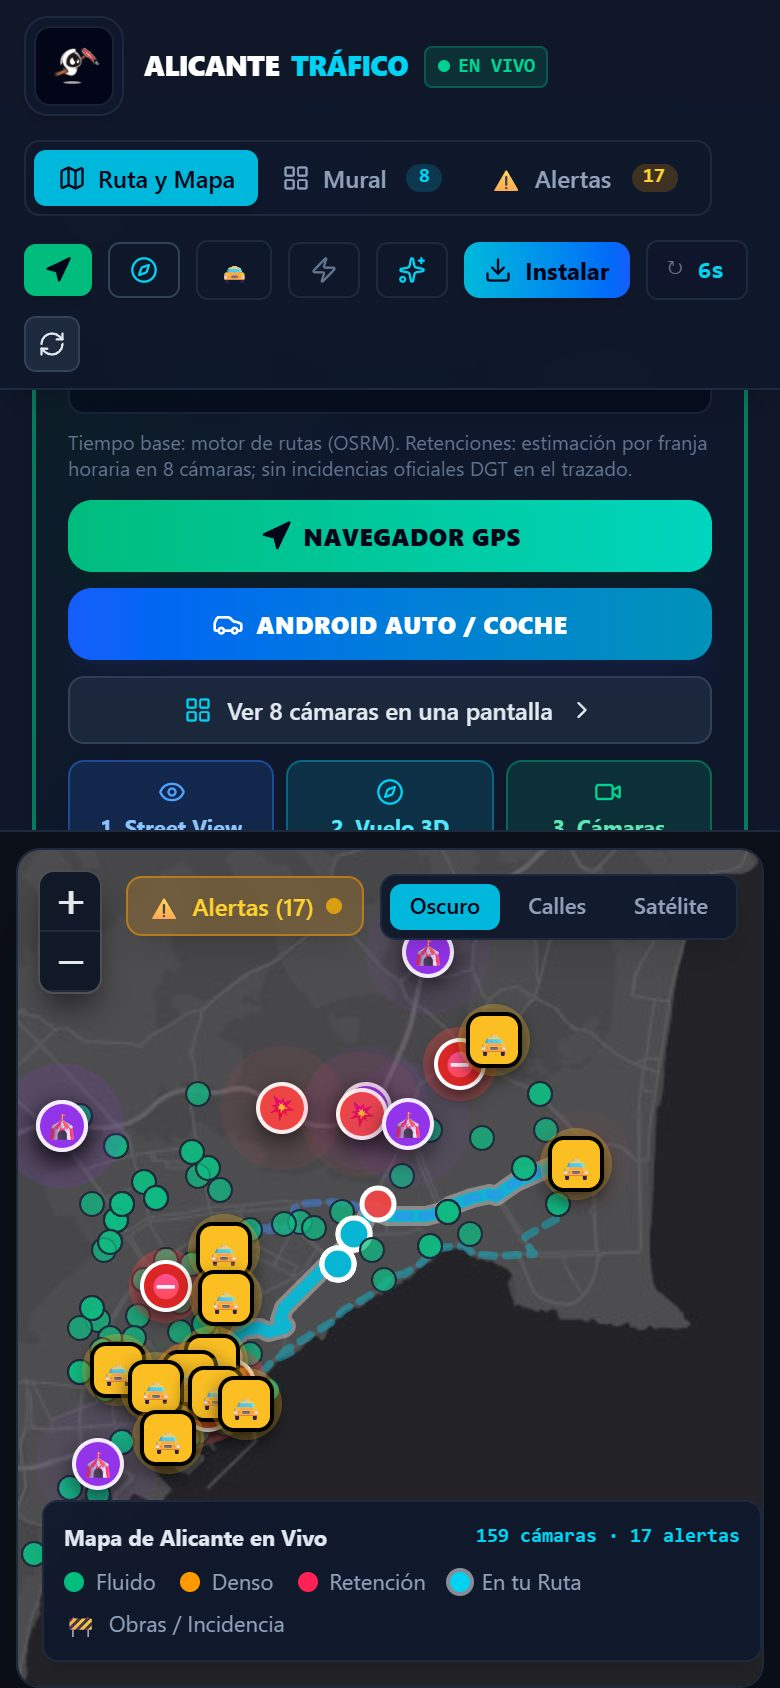
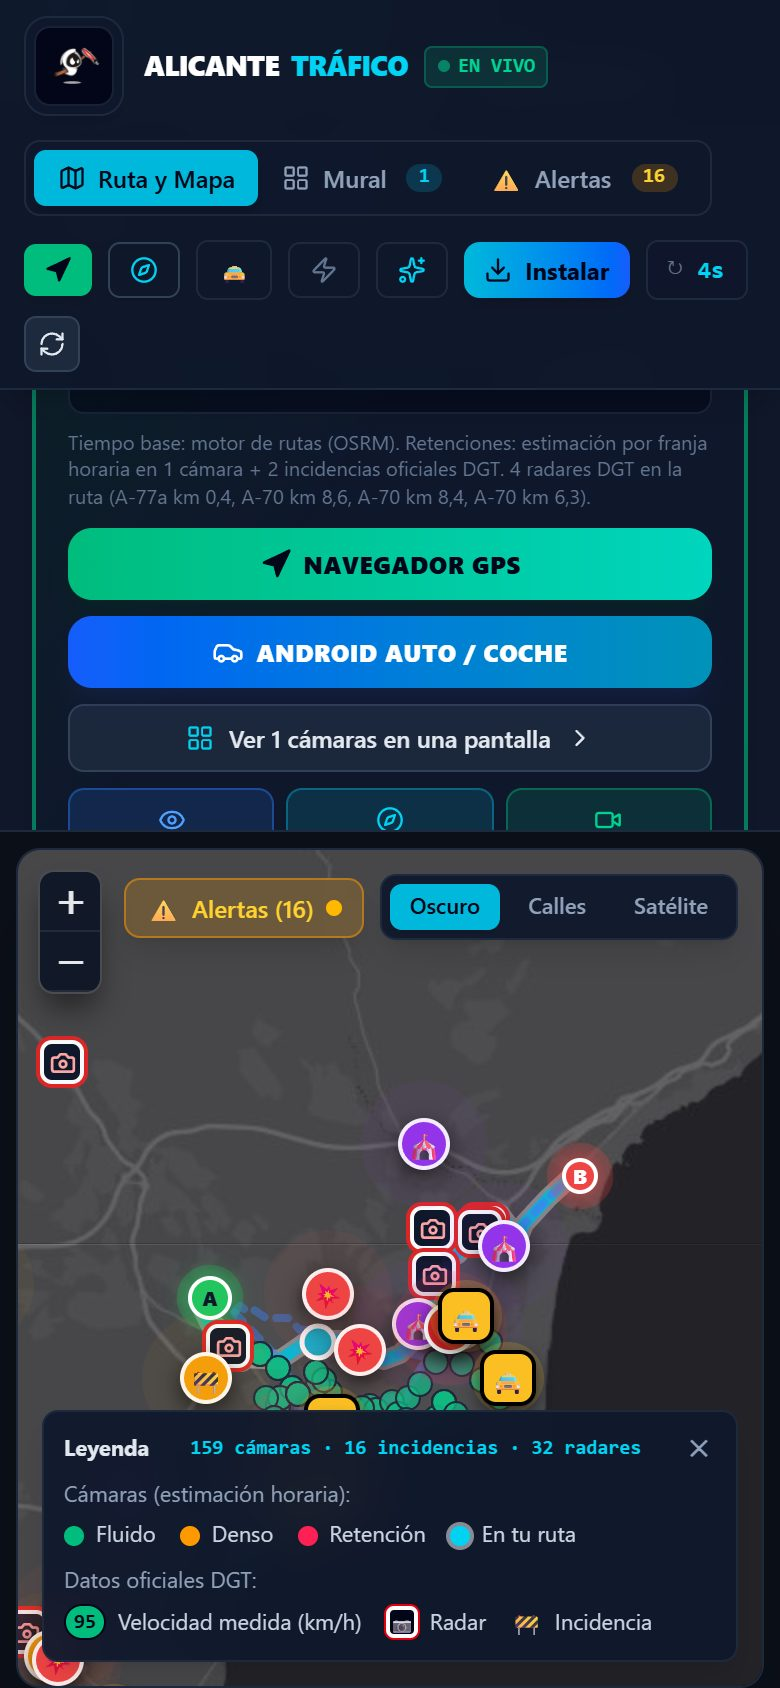
feat: edificios OSM mensuales y capturas nuevas del README
- Workflow mensual (día 1, 03:17 UTC, y manual) que regenera public/buildings
  desde Overpass y hace commit en main solo si hay cambios.
- build-buildings.ts: las zonas que Overpass no responde conservan los edificios
  ya publicados; si no responde ninguna, sale con error sin tocar nada.
- Capturas reales nuevas: radares, velocidades medidas, leyenda y modo coche.

diff --git a/scripts/build-buildings.ts b/scripts/build-buildings.ts
@@ -4,7 +4,11 @@
 // Why: the public Overpass servers are often saturated (20-60 s per query, 504s), so
 // asking them from a phone while driving rarely works. Buildings change slowly, so
 // they are downloaded once here and served from GitHub Pages next to the app.
-// Run again (`npm run buildings`) to refresh them; it takes a few minutes.
+// They are refreshed monthly by .github/workflows/buildings.yml, or by hand with
+// `npm run buildings` (it can take more than an hour when Overpass is busy).
+//
+// If Overpass does not answer for part of the area, the buildings already published for
+// that part are kept, so a bad day never deletes buildings from the map.
 import { mkdir, readFile, rm, writeFile } from 'node:fs/promises';
 import path from 'node:path';
 
@@ -13,11 +17,17 @@ export const BUILDINGS_BBOX = { minLat: 38.28, maxLat: 38.48, minLng: -0.62, max
 export const BUILDINGS_ZOOM = 15;
 
 const CELL_DEG = 0.025; // query cell: small enough for a busy Overpass server
-const ENDPOINTS = ['https://overpass-api.de/api/interpreter', 'https://maps.mail.ru/osm/tools/overpass/api/interpreter'];
+const ENDPOINTS = process.env.OVERPASS_ENDPOINTS?.split(',') || [
+  'https://overpass-api.de/api/interpreter',
+  'https://maps.mail.ru/osm/tools/overpass/api/interpreter',
+];
+const ATTEMPTS = Number(process.env.BUILDINGS_ATTEMPTS) || 12;
 const USER_AGENT = 'AlicanteTraficoEnVivo/1.0 (+https://github.com/jpm70/alicante-traffic-live)';
-const OUT_DIR = path.resolve('public', 'buildings');
+// Published tiles (read to keep the parts Overpass could not refresh) and output folder
+const PUBLISHED_DIR = path.resolve('public', 'buildings');
+const OUT_DIR = path.resolve(process.env.BUILDINGS_OUT || PUBLISHED_DIR);
 // Each downloaded cell is kept here, so an interrupted run resumes where it stopped
-const CACHE_DIR = path.resolve('.cache', 'buildings');
+const CACHE_DIR = path.resolve(process.env.BUILDINGS_CACHE || path.join('.cache', 'buildings'));
 
 const sleep = (ms: number) => new Promise((r) => setTimeout(r, ms));
 
@@ -59,7 +69,7 @@ async function query(minLat: number, minLng: number, maxLat: number, maxLng: num
     `way["building"]["building"!~"^(roof|construction|ruins|no)$"]["location"!="underground"](${minLat},${minLng},${maxLat},${maxLng});` +
     `out geom qt;`;
   let lastError: unknown;
-  for (let attempt = 0; attempt < 12; attempt++) {
+  for (let attempt = 0; attempt < ATTEMPTS; attempt++) {
     const endpoint = ENDPOINTS[attempt % ENDPOINTS.length];
     try {
       const res = await fetch(endpoint, {
@@ -78,12 +88,43 @@ async function query(minLat: number, minLng: number, maxLat: number, maxLng: num
   throw lastError;
 }
 
+// Buildings currently published, as compact records with their centroid
+async function loadPublished(): Promise<{ rec: number[]; lat: number; lng: number }[]> {
+  try {
+    const index = JSON.parse(await readFile(path.join(PUBLISHED_DIR, 'index.json'), 'utf8'));
+    const out: { rec: number[]; lat: number; lng: number }[] = [];
+    for (const key of index.tiles as string[]) {
+      const recs: number[][] = JSON.parse(await readFile(path.join(PUBLISHED_DIR, String(index.zoom), `${key}.json`), 'utf8'));
+      for (const rec of recs) {
+        let lat = rec[1];
+        let lng = rec[2];
+        let sLat = lat;
+        let sLng = lng;
+        let n = 1;
+        for (let i = 3; i + 1 < rec.length; i += 2) {
+          lat += rec[i];
+          lng += rec[i + 1];
+          sLat += lat;
+          sLng += lng;
+          n++;
+        }
+        out.push({ rec, lat: sLat / n / 1e6, lng: sLng / n / 1e6 });
+      }
+    }
+    return out;
+  } catch {
+    return [];
+  }
+}
+
 async function main() {
   const { minLat, maxLat, minLng, maxLng } = BUILDINGS_BBOX;
+  const published = await loadPublished();
   const tiles = new Map<string, number[][]>();
   const seen = new Set<number>();
   let cells = 0;
   const failedCells: string[] = [];
+  const refreshedCells: number[][] = [];
   const totalCells = Math.ceil((maxLat - minLat) / CELL_DEG) * Math.ceil((maxLng - minLng) / CELL_DEG);
 
   for (let lat = minLat; lat < maxLat - 1e-9; lat += CELL_DEG) {
@@ -106,6 +147,7 @@ async function main() {
           continue;
         }
       }
+      refreshedCells.push([...box]);
       let added = 0;
       for (const el of data.elements || []) {
         if (el.type !== 'way' || !Array.isArray(el.geometry) || el.geometry.length < 4 || seen.has(el.id)) continue;
@@ -129,6 +171,29 @@ async function main() {
     }
   }
 
+  // Keep the published buildings of every part Overpass could not refresh: anything not
+  // downloaded again whose centre is not inside a refreshed cell (where the new data
+  // rules, so demolished buildings do disappear)
+  let kept = 0;
+  if (failedCells.length && published.length) {
+    const fresh = new Set<string>();
+    for (const recs of tiles.values()) for (const r of recs) fresh.add(`${r[1]},${r[2]}`);
+    for (const b of published) {
+      if (fresh.has(`${b.rec[1]},${b.rec[2]}`)) continue;
+      const refreshed = refreshedCells.some(([s, w, n, e]) => b.lat >= s && b.lat < n && b.lng >= w && b.lng < e);
+      if (refreshed) continue;
+      const key = `${lng2tile(b.lng, BUILDINGS_ZOOM)}/${lat2tile(b.lat, BUILDINGS_ZOOM)}`;
+      if (!tiles.has(key)) tiles.set(key, []);
+      tiles.get(key)!.push(b.rec);
+      kept++;
+    }
+  }
+  if (failedCells.length === totalCells) {
+    console.error('Overpass no respondió para ninguna zona: no se cambia nada.');
+    process.exitCode = 1;
+    return;
+  }
+
   await rm(OUT_DIR, { recursive: true, force: true });
   for (const [key, recs] of tiles) {
     const file = path.join(OUT_DIR, String(BUILDINGS_ZOOM), `${key}.json`);
@@ -141,15 +206,14 @@ async function main() {
       zoom: BUILDINGS_ZOOM,
       bbox: BUILDINGS_BBOX,
       tiles: [...tiles.keys()].sort(),
-      buildings: seen.size,
+      buildings: seen.size + kept,
       generatedAt: new Date().toISOString(),
       attribution: '© OpenStreetMap contributors (ODbL)',
     })
   );
-  console.log(`Listo: ${seen.size} edificios en ${tiles.size} teselas`);
+  console.log(`Listo: ${seen.size + kept} edificios en ${tiles.size} teselas`);
   if (failedCells.length) {
-    console.warn(`Faltan ${failedCells.length} celdas (Overpass no respondió). Vuelve a ejecutar \`npm run buildings\` para completarlas.`);
-    process.exitCode = 2;
+    console.warn(`${failedCells.length} de ${totalCells} zonas sin respuesta de Overpass: se mantienen sus ${kept} edificios publicados.`);
   }
 }
 

diff --git a/README.md b/README.md
@@ -19,10 +19,23 @@ Creado por [unfantasmaenelsistema.com](https://www.unfantasmaenelsistema.com/).
 
 ## 📸 Capturas de Pantalla
 
-Capturas reales de la aplicación en un móvil (390 × 844), ruta Plaza de los Luceros → Playa de San Juan.
+Capturas reales de la aplicación publicada, en un móvil Android (390 × 844) y en la pantalla de un coche (1280 × 600). Rutas: Sant Vicent del Raspeig → El Campello por la A-70 (radares y velocidades medidas por la DGT) y Plaza de los Luceros → Playa de San Juan (3D, cámaras y taxi).
 
-| Ruta recomendada | Mapa con la ruta, cámaras e incidencias |
+| Ruta recomendada con radares DGT | Mapa: velocidades medidas, radares y leyenda |
 | :---: | :---: |
+| <img src="docs/screenshots/01-ruta.jpg" width="300" alt="Ruta recomendada"> | <img src="docs/screenshots/02-mapa.jpg" width="300" alt="Mapa con velocidades medidas, radares y leyenda"> |
+| **Vuelo 3D** (ortofoto + edificios OSM) | **Conducción 3D** (vista conductor) |
+| <img src="docs/screenshots/03-vuelo-3d.jpg" width="300" alt="Vuelo 3D"> | <img src="docs/screenshots/04-conduccion-3d.jpg" width="300" alt="Conducción 3D"> |
+| **Navegador GPS** con aviso de radar | **Mural de cámaras** de la ruta |
+| <img src="docs/screenshots/05-gps.jpg" width="300" alt="Navegador GPS con aviso de radar"> | <img src="docs/screenshots/07-camaras.jpg" width="300" alt="Mural de cámaras"> |
+| **Incidencias oficiales DGT** | **Salpicadero de taxi** |
+| <img src="docs/screenshots/08-alertas-dgt.jpg" width="300" alt="Incidencias DGT"> | <img src="docs/screenshots/09-taxi.jpg" width="300" alt="Salpicadero de taxi"> |
+
+**Modo coche / Android Auto** (pantalla apaisada del coche: maniobra, aviso de radar, velocidad, llegada y botones grandes)
+
+<img src="docs/screenshots/06-modo-coche.jpg" width="640" alt="Modo coche en una pantalla de coche">
+
+---: | :---: |
 | <img src="docs/screenshots/01-ruta.jpg" width="300" alt="Ruta recomendada"> | <img src="docs/screenshots/02-mapa.jpg" width="300" alt="Mapa de Alicante con la ruta"> |
 | **Vuelo 3D** (ortofoto + edificios OSM) | **Conducción 3D** (vista conductor) |
 | <img src="docs/screenshots/03-vuelo-3d.jpg" width="300" alt="Vuelo 3D"> | <img src="docs/screenshots/04-conduccion-3d.jpg" width="300" alt="Conducción 3D"> |
@@ -122,7 +135,7 @@ Activando el modo **"Transporte público"** en la barra superior, la interfaz de
 - **Mapas y Geometría**: [Leaflet](https://leafletjs.com/), OpenStreetMap cartography
 - **Gráficos 3D y WebGL**: [Three.js](https://threejs.org/)
 - **Iconografía**: [Lucide React](https://lucide.dev/)
-- **Sin servidor propio**: sitio estático en GitHub Pages; las incidencias DGT y los edificios se generan en tiempo de build (GitHub Actions).
+- **Sin servidor propio**: sitio estático en GitHub Pages; los datos de la DGT se generan en cada despliegue y los edificios cada mes (GitHub Actions).
 - **Inteligencia Artificial (Opcional)**: [@google/genai](https://github.com/google-gemini/generative-ai-js) llamado desde el navegador con la clave Gemini de cada usuario.
 
 ---
@@ -168,7 +181,7 @@ npm run test:e2e    # la app compilada en un móvil (Chromium) y en Firefox
 Los tests e2e usan los servicios públicos reales (OSRM, mapas, OpenStreetMap). En GitHub se ejecutan en cada pull request (`.github/workflows/ci.yml`); el despliegue solo publica si pasan la comprobación de tipos y los tests unitarios.
 
 ### Edificios 3D
-Los edificios de OpenStreetMap del área metropolitana de Alicante están pre-generados en `public/buildings/` (teselas pequeñas que el 3D descarga según la ruta). Para actualizarlos:
+Los edificios de OpenStreetMap del área metropolitana de Alicante están pre-generados en `public/buildings/` (teselas pequeñas que el 3D descarga según la ruta). Se regeneran solos el día 1 de cada mes (`.github/workflows/buildings.yml`, también se puede lanzar a mano desde *Actions*): si algo cambió en OpenStreetMap, el workflow hace commit en `main` y el siguiente despliegue lo publica. Overpass suele ir saturado, así que las zonas que no responden conservan los edificios ya publicados, y si no responde ninguna no se toca nada. Para regenerarlos en local:
 ```bash
 npm run buildings
 ```
@@ -181,15 +194,16 @@ Fuera de esa zona, el 3D los pide en directo a Overpass.
 ```text
 ├── .github/workflows/
 │   ├── deploy.yml            # Build y despliegue en GitHub Pages (push a main y cada 15 min)
+│   ├── buildings.yml         # Regenera los edificios OSM el día 1 de cada mes
 │   └── ci.yml                # Tests en cada pull request
 ├── docs/
-│   └── screenshots/          # Capturas reales de la app en móvil
+│   └── screenshots/          # Capturas reales de la app (móvil y pantalla de coche)
 ├── tests/
 │   ├── unit/                 # Vitest: geometría, rutas, maniobras, feeds DGT, radares
 │   ├── e2e/                  # Playwright: build real en móvil (Chromium) y Firefox
 │   └── fixtures/             # Extractos reales de los feeds DATEX II de la DGT
 ├── public/                   # Activos estáticos, iconos PWA y manifiesto
-│   ├── buildings/            # Edificios OSM pre-generados en teselas (npm run buildings)
+│   ├── buildings/            # Edificios OSM pre-generados en teselas (mensual)
 │   ├── manifest.json         # Configuración PWA
 │   ├── sw.js                 # Service Worker (solo cachea recursos propios)
 │   └── icono.png             # Icono de la aplicación
